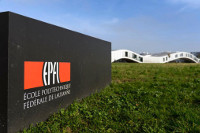
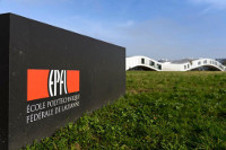
Reduce size and improve compression of images

diff --git a/app/index.html b/app/index.html
@@ -62,8 +62,8 @@
 
       <picture>
         <source srcset="images/profile-picture-scare.webp" type="image/webp">
-        <source srcset="images/profile-picture-scare.png" type="image/jpeg">
-        <img class="profile" src="images/profile-picture-scare.png" width="260" height="260" data-i18n="[title]header.profile.title" alt="Antoine Chabert" title="Antoine Chabert profile picture">
+        <source srcset="images/profile-picture-scare.jpg" type="image/jpeg">
+        <img class="profile" src="images/profile-picture-scare.jpg" width="260" height="260" data-i18n="[title]header.profile.title" alt="Antoine Chabert" title="Antoine Chabert profile picture">
       </picture>
       <div class="title">
         <h1>Antoine Chabert</h1>

diff --git a/app/sw.js b/app/sw.js
@@ -1,0 +1,17 @@
+var CACHE_NAME = 'my-site-cache-v1';
+var urlsToCache = [
+  '/',
+  '/styles/main.css',
+  '/script/main.js'
+];
+
+self.addEventListener('install', function(event) {
+  // Perform install steps
+  event.waitUntil(
+    caches.open(CACHE_NAME)
+      .then(function(cache) {
+        console.log('Opened cache');
+        return cache.addAll(urlsToCache);
+      })
+  );
+});
